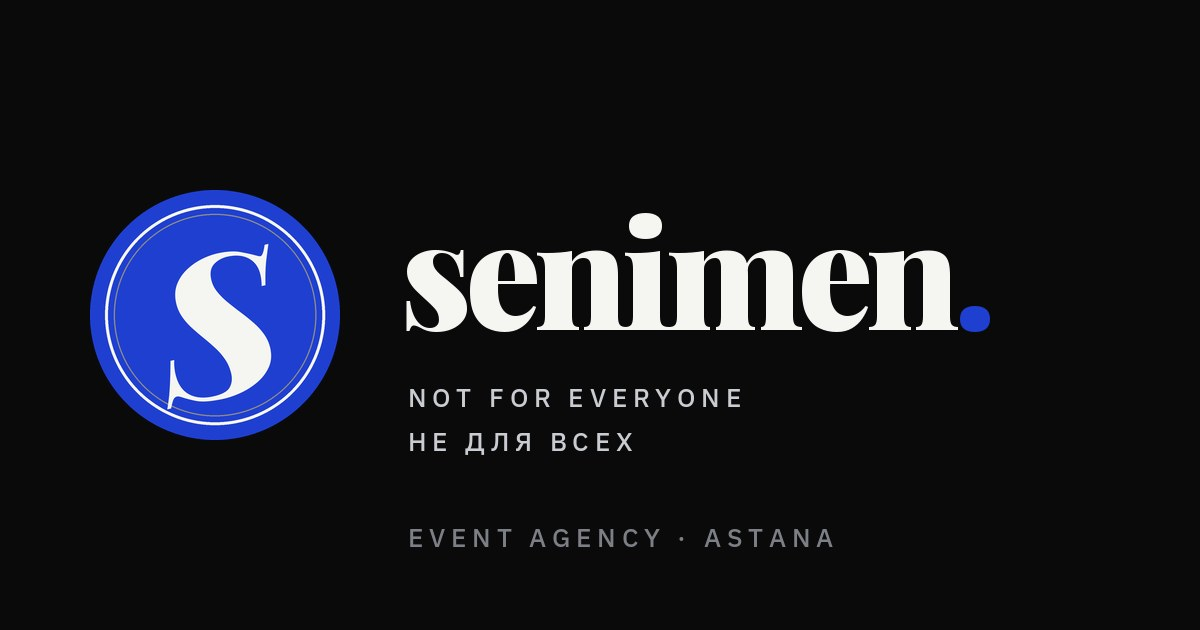
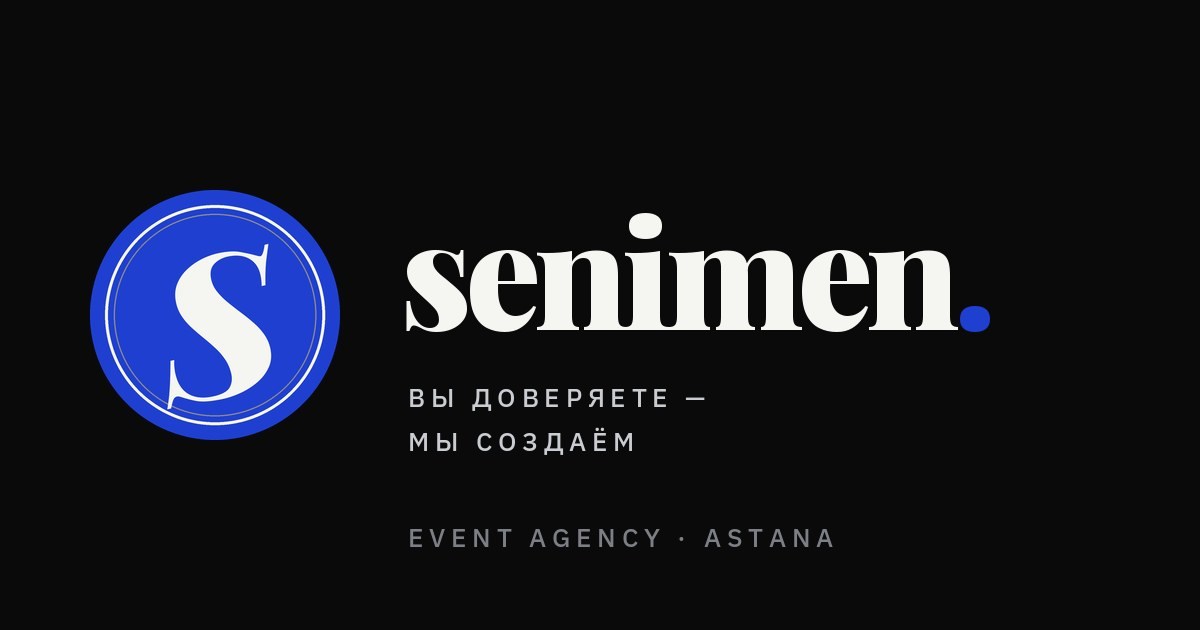
Change the slogan to «Вы доверяете — мы создаём»
Replace «Not for everyone / Не для всех» on the page, footer, privacy
page, schema.org, og-image, llms.txt and README, and rewrite the blue
band around «сенім» meaning trust.

Claude-Session: https://claude.ai/code/session_01BmDCaJyWWXxJokCCjbRZqV

Changed region(s): [[0.3392, 0.6032, 0.6167, 0.7238]]

diff --git a/index.html b/index.html
@@ -22,7 +22,7 @@
 <meta property="og:image" content="https://senimenagency.kz/og-image.jpg">
 <meta property="og:image:width" content="1200">
 <meta property="og:image:height" content="630">
-<meta property="og:image:alt" content="senimen. — Not for everyone / Не для всех">
+<meta property="og:image:alt" content="senimen. — Вы доверяете, мы создаём">
 <meta name="twitter:card" content="summary_large_image">
 <meta name="twitter:title" content="Senimen Event Agency — мероприятия, которые запоминаются">
 <meta name="twitter:description" content="Форумы, концерты, корпоративы и свадьбы под ключ в Астане и по всему Казахстану.">
@@ -46,7 +46,7 @@
       "@id": "https://senimenagency.kz/#organization",
       "name": "Senimen Event Agency",
       "alternateName": "senimen.",
-      "slogan": "Not for everyone / Не для всех",
+      "slogan": "Вы доверяете — мы создаём",
       "url": "https://senimenagency.kz/",
       "logo": "https://senimenagency.kz/icon-512.png",
       "image": "https://senimenagency.kz/og-image.jpg",
@@ -183,9 +183,9 @@
     <div class="wrap">
       <figure class="brand-reel"><video muted loop playsinline preload="none" poster="assets/img/brand-reel-poster-720.webp" data-src="assets/video/brand-reel.mp4" aria-label="Команда Senimen на сцене: экран с логотипом senimen."></video></figure>
       <div>
-        <p class="eyebrow">senimen — от казахского <em>«сенім»</em>, доверие</p>
-        <h2 id="about-title"><em>Not for everyone.</em> Не для всех.</h2>
-        <p>Нам доверяют события, которые нельзя повторить: форум на тысячи гостей, премьеру, вечер для своей команды. Мы отвечаем за каждую деталь — от первой идеи до последнего гостя.</p>
+        <p class="eyebrow"><em>«сенім»</em> — по-казахски «доверие»</p>
+        <h2 id="about-title"><em>Вы доверяете —</em> мы создаём.</h2>
+        <p>Senimen — это доверие. Вы доверяете нам событие, которое нельзя повторить: форум на тысячи гостей, свадьбу, вечер для своей команды. А мы создаём его вместе с вами и отвечаем за каждую деталь — от первой идеи до последнего гостя.</p>
       </div>
     </div>
   </section>
@@ -259,7 +259,7 @@
       <a class="logo logo--v" href="#top" aria-label="Senimen — наверх">seni<br>men<i>.</i></a>
       <div>
         <img class="seal" src="assets/img/seal.svg" width="200" height="200" alt="Печать Senimen" loading="lazy">
-        <p class="slogan">Not for everyone <span>Не для всех</span></p>
+        <p class="slogan">Вы доверяете — <span>мы создаём</span></p>
       </div>
       <nav aria-label="Контакты и документы">
         <a href="tel:+77067290032">+7 706 729 00 32</a>

diff --git a/privacy/index.html b/privacy/index.html
@@ -60,7 +60,7 @@
   <div class="wrap">
     <div class="foot">
       <a class="logo logo--v" href="../" aria-label="Senimen — на главную">seni<br>men<i>.</i></a>
-      <p class="slogan">Not for everyone <span>Не для всех</span></p>
+      <p class="slogan">Вы доверяете — <span>мы создаём</span></p>
       <nav aria-label="Контакты"><a href="../">Главная</a><a href="https://wa.me/77067290032" target="_blank" rel="noopener">WhatsApp</a><a href="https://www.instagram.com/senimen.agency/" target="_blank" rel="noopener">Instagram</a><a href="mailto:info@senimenagency.kz">info@senimenagency.kz</a></nav>
     </div>
     <p class="copy">© 2026 Senimen Event Agency · Астана</p>

diff --git a/tools/brand-assets.py b/tools/brand-assets.py
@@ -115,8 +115,10 @@ def og_image():
             d.text((cx, cy), ch, font=font, fill=fill)
             cx += font.getlength(ch) + track * font.size
 
-    spaced((408, 380), "NOT FOR EVERYONE", caps, CHROME)
-    spaced((408, 424), "НЕ ДЛЯ ВСЕХ", caps_cy, CHROME)
+    spaced((408, 380), "ВЫ ДОВЕРЯЕТЕ ", caps_cy, CHROME)
+    dash_x = 408 + sum(caps_cy.getlength(c) + 0.22 * 26 for c in "ВЫ ДОВЕРЯЕТЕ ")
+    spaced((dash_x, 380), "—", caps, CHROME)  # the dash lives in the latin subset
+    spaced((408, 424), "МЫ СОЗДАЁМ", caps_cy, CHROME)
     spaced((408, 520), "EVENT AGENCY · ASTANA", caps, "#7C7F85")
     im.convert("RGB").save(ROOT / "og-image.jpg", quality=88, optimize=True, progressive=True)
 

diff --git a/README.md b/README.md
@@ -13,7 +13,7 @@
 | Логотип | «senimen.» строчными, Playfair Display Black, трекинг −0.04em, точка синяя (на синем фоне — чёрная). Вертикальная версия «seni / men.» — в футере |
 | Знак | синяя круглая печать с курсивной S (Playfair Display Black Italic), повёрнута на −12° — `assets/img/seal.svg`, на синем фоне `seal-black.svg` |
 | Шрифты | Playfair Display Black — логотип и заголовки, Black Italic — акценты; IBM Plex Sans — тексты и подписи капсом с разрядкой. Лицензия SIL OFL, файлы в `fonts/` |
-| Слоган | Not for everyone / Не для всех |
+| Слоган | Вы доверяете — мы создаём. «Сенім» по-казахски — доверие |
 
 Синий не используется как цвет текста на чёрном (контраст 2,5:1) — только заливки, точка логотипа, кнопки, линии.
 
